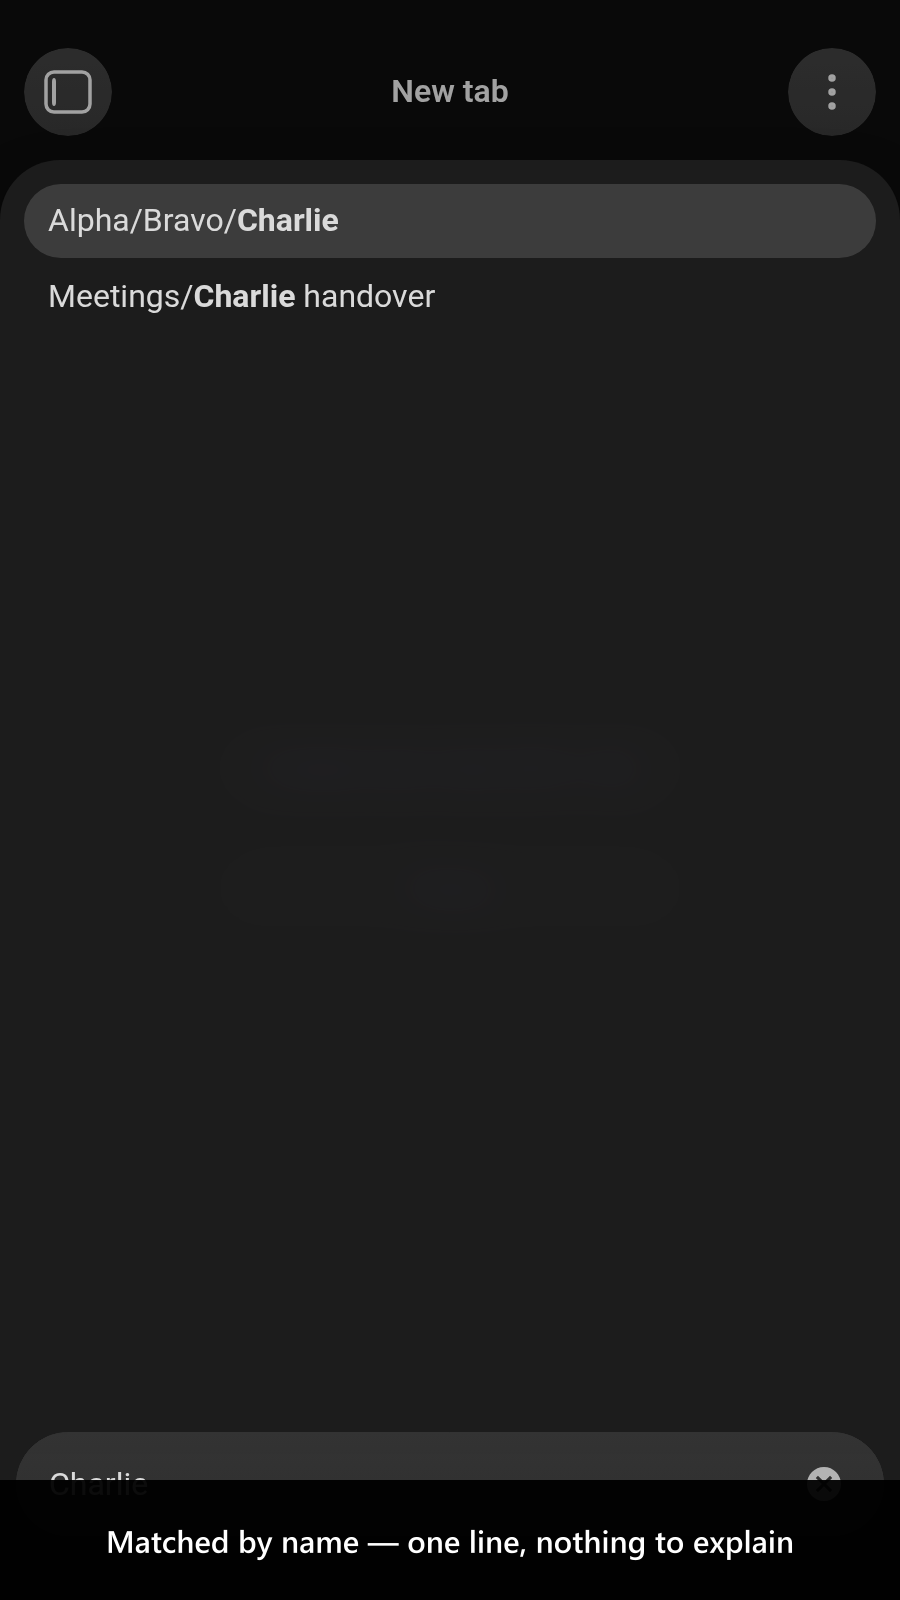
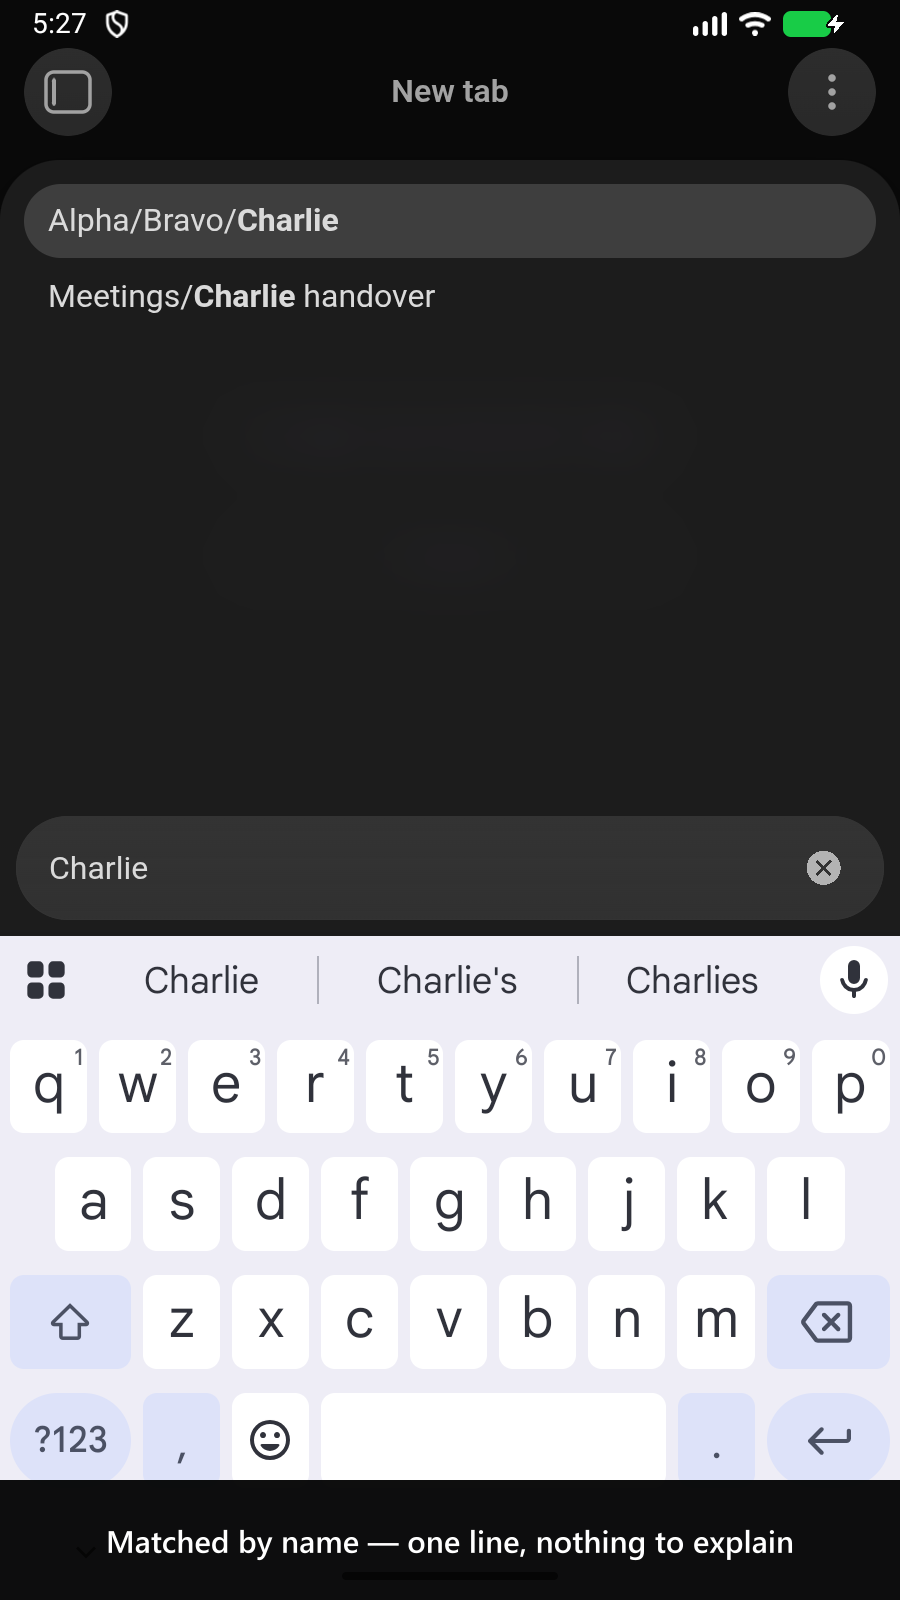
test(integration): take the mobile frames with the soft keyboard up
All four mobile frames show the switcher's focused search field, and until
now all four photographed the page rather than the device. That cannot show
a keyboard: the capture drives Appium in the WebView context and the IME is
a system window, not part of the page. So the lower 59-71% of every frame
was an empty band where a phone shows a keyboard, and the caption band -
drawn across the bottom of the image - landed on the search field and cut
the typed query in half.

The frames now come from the device framebuffer, with the keyboard raised
first. Measured as the largest contiguous flat row-run: 69.9% -> 31.4%,
71.3% -> 32.8%, 59.0% -> 20.5%, 71.3% -> 32.8%, with the band's lower edge
moving from row 1431 to row 815, which is where the keyboard now starts.
The query is legible in all four. What is left above the field is the
switcher's own empty list area, which is a real characteristic of a query
with one or two matches rather than anything a keyboard can fix.

Both halves of raising it come from the harness rather than being copied in
here: the AVD is built with a hardware keyboard attached, so Android
suppresses the on-screen one until the device setting is flipped, and a
WebView will not ask for an IME on programmatic focus alone, so it takes a
real touch on the field. The device setting is restored exactly afterwards,
including the case where it had never been written.

The consequence to accept, and now written down where it will be read: these
[…]

diff --git a/src/screenshots.android-capture.integration.test.ts b/src/screenshots.android-capture.integration.test.ts
@@ -13,6 +13,11 @@
  * 900x1600 the community store asks for. See `scripts/vitest-config.ts` for why the shared `obsidian_test`
  * AVD cannot stand in for it.
  *
+ * **Every frame is taken with the soft keyboard up**, because every frame shows a focused search field and
+ * that is what a phone looks like with one. See {@link shoot} for what raising it takes and why the
+ * harness owns both halves. The consequence to accept: these four frames are **no longer
+ * byte-reproducible**, since the status-bar clock and the battery indicator are now in them.
+ *
  * Split across several short `evalInObsidian` calls because one call is one `execute/sync`, which
  * WebDriver caps at 30 seconds — the wall this repo's eight cross-platform suites all hit on their first
  * Android run. The waiting itself happens in NODE for the same reason: the 60s ceiling this file used to
@@ -32,11 +37,14 @@ import { join } from 'node:path';
 import process from 'node:process';
 import { setTimeout as sleepInNode } from 'node:timers/promises';
 import {
-  captureObsidianScreenshot,
+  captureDeviceScreenshot,
   evalInObsidian,
   labelScreenshot,
   pollInObsidian,
-  readPngDimensions
+  raiseSoftKeyboard,
+  readPngDimensions,
+  resolveEmulatorDeviceId,
+  withSoftKeyboardEnabled
 } from 'obsidian-integration-testing';
 import { getTemporaryVault } from 'obsidian-integration-testing/vitest-global-setup-plugin';
 import {
@@ -53,6 +61,19 @@ const HEIGHT_IN_PIXELS = 1600;
 
 const MODAL_SELECTOR = '.alias-quick-switcher-modal';
 
+/**
+ * The switcher's search field, which is what a thumb touches to bring the keyboard up.
+ */
+const INPUT_SELECTOR = `${MODAL_SELECTOR} .prompt-input`;
+
+/**
+ * The AVD these frames are taken on, matched by name.
+ *
+ * Never the first device `adb devices` lists: a physical phone is routinely plugged into the same machine,
+ * and the shared `obsidian_test` AVD the cross-platform suites drive is a different size.
+ */
+const AVD_NAME = 'obsidian_screenshots';
+
 const WAIT_TIMEOUT_IN_MILLISECONDS = 60_000;
 const TEST_TIMEOUT_IN_MILLISECONDS = 600_000;
 
@@ -61,7 +82,11 @@ const ROW_SETTLE_DELAY_IN_MILLISECONDS = 900;
 
 const IMAGES_DIRECTORY = join(process.cwd(), 'images', 'screenshots');
 
+let deviceId = '';
+
 beforeAll(async () => {
+  deviceId = await resolveEmulatorDeviceId({ avdName: AVD_NAME });
+
   const vault = getTemporaryVault();
 
   vault.populate({
@@ -208,17 +233,35 @@ async function openSwitcher(query: string): Promise<string[]> {
 }
 
 /**
- * Captures the device's framebuffer, captions it, and writes it as
+ * Captures the device's framebuffer with the soft keyboard up, captions it, and writes it as
  * `images/screenshots/screenshot-mobile-<index>.png`.
+ *
+ * Every frame here shows the switcher's focused search field, so every frame gets the keyboard — and
+ * therefore the DEVICE capture rather than the page one. `captureObsidianScreenshot` drives Appium in the
+ * WebView context, so it photographs the page: no status bar, and no keyboard, because the IME is a system
+ * window and not part of the page. That left the lower ~60-70 % of each frame as an empty band where a
+ * phone shows an IME.
+ *
+ * Two things are needed and both are easy to miss, which is why they are the harness's job rather than
+ * this file's: the AVD is built `hw.keyboard=yes`, so Android suppresses the on-screen keyboard until
+ * `withSoftKeyboardEnabled` lifts that; and a WebView does not ask for an IME on programmatic focus
+ * alone, so `raiseSoftKeyboard` puts a real touch on the field and proves it came up.
  *
  * @param index - The 1-based listing position.
  * @param caption - The caption drawn across the bottom of the frame.
  */
 async function shoot(index: number, caption: string): Promise<void> {
-  const bytes = await captureObsidianScreenshot({
-    heightInPixels: HEIGHT_IN_PIXELS,
-    vaultPath: vaultPath(),
-    widthInPixels: WIDTH_IN_PIXELS
+  const bytes = await withSoftKeyboardEnabled({
+    async callback() {
+      await raiseSoftKeyboard({
+        deviceId,
+        inputSelector: INPUT_SELECTOR,
+        vaultPath: vaultPath()
+      });
+
+      return await captureDeviceScreenshot({ deviceId });
+    },
+    deviceId
   });
 
   const labeled = await labelScreenshot(bytes, { text: caption });

diff --git a/AGENTS.md b/AGENTS.md
@@ -77,6 +77,22 @@ listing shots.
   status bar but on a phone is the switcher's own search field — so the typed query is the one thing a
   mobile frame does not show in full. The rows above it are what the frame is evidence for; do not caption
   a mobile frame with something only the query could prove.
+- **The mobile frames photograph the DEVICE, not the page, and are therefore not byte-reproducible.** All
+  four show a focused search field, so all four are taken with the soft keyboard up.
+  `captureObsidianScreenshot` cannot produce that: it drives Appium in the WebView context, so it captures
+  the page, and the IME is a system window that is not part of the page — which left the lower 59–71 % of
+  each frame as an empty band where a phone shows a keyboard. `captureDeviceScreenshot` reads the
+  framebuffer instead, and brings the status-bar clock and battery indicator into the frame with it. That
+  is the trade: a frame honest about the experience, at the cost of a re-capture never being byte-identical.
+  Do not "fix" the churn by reverting to the page capture.
+- **Raising the keyboard takes TWO things, and the harness owns both.** The AVD is built `hw.keyboard=yes`,
+  so Android suppresses the on-screen keyboard entirely — `withSoftKeyboardEnabled` lifts that for the
+  duration of a shot and restores the device exactly, *including* restoring a setting that had never been
+  written, which takes a `settings delete` rather than a write. And a WebView does not ask for an IME on
+  programmatic focus alone: `raiseSoftKeyboard` puts a real `adb` touch on the field, waits for the
+  animation, and proves geometrically that the field lifted — nothing in the page reports the keyboard, so
+  the field's own offset from the bottom is the only signal. A failure writes the device framebuffer and
+  `dumpsys input_method` to `dist/screenshots/`, because a bare assertion failure here is unreadable.
 
 ### Writing a `*.cross-platform.*` suite here
 
@@ -85,7 +101,7 @@ Both constraints below were found the hard way, by every one of the eight suites
 - **One `evalInObsidian` call is one `execute/sync`, and WebDriver caps a single script at 30 seconds.** A create-wait-open-type-assert flow fits inside that on a desktop and does not on a phone. Split the suite into several short calls and compute the stamp in the TEST, passing it in, so each call re-derives the same paths instead of carrying state across the boundary.
 - **The harness's trusted-input helpers are Electron-only.** `pressKey` reaches for `remote` and throws on Android. The `no-untrusted-input-events` rule pushes towards it, which is right for a desktop-only suite and unusable for a cross-platform one. Dismiss a modal by clicking `.modal-bg` instead — a plain click is the one gesture that works on both.
 - **A timed-out closure wedges the shared WebDriver session**, so every suite after it fails in ~45 ms with no useful error. When a run collapses like that, re-run the first failing file alone before believing anything about the ones behind it.
-- **A stale AVD boot snapshot kills the device mid-session, and the harness resumes one on every launch.** It passes `-no-snapshot-save` but never `-no-snapshot-load`, so `default_boot` is restored every time; when that snapshot has rotted the emulator boots, serves adb, accepts a uiautomator2 session, and then goes `offline` about a minute later. Because the error reported depends on which call was in flight, the same fault appears as a `POST /session` timeout, a `device offline`, or `Device ... was not in the list of connected devices` — which reads like four different problems. Proof is one A/B: resumed dies ~90 s in, `-no-snapshot-load` survives 240 s+. Fix it at the machine level, not in this repo — cold-boot the AVD, confirm it is healthy, then `adb -s emulator-5554 emu avd snapshot save default_boot`. Tracked as `T956`.
-- **A zombie `qemu-system-x86_64-headless` is the first thing to check when the Android leg will not start.** The harness launches with `-no-window`, whose backend process is `qemu-system-x86_64-**headless**.exe`; its teardown kills the launcher, logs `Killed auto-started emulator`, and leaves that backend alive holding TCP 5554/5555 and the AVD's `multiinstance.lock`. Every later run then refuses with `FATAL | Running multiple emulators with the same AVD` — on the emulator's own stdout, which the harness discards — and reports a `POST /session` timeout instead. Self-perpetuating, since each failure leaves another zombie. Confirm with `Get-Process | Where-Object { $_.ProcessName -like 'qemu*' }` (note that filtering on `qemu-system-x86_64` alone does NOT match it), recover with `Stop-Process -Force`, `adb kill-server`, and deleting `~/.android/avd/obsidian_test.avd/multiinstance.lock` — but not `hardware-qemu.ini.lock`, which is a directory healthy AVDs have too. Then **let the harness boot its own emulator: do NOT pre-boot one**. A hand-started device is not adopted — the transport starts a second instance for the same AVD and collides with itself, failing with `Android emulator exited prematurely with code 1`. Tracked upstream as `T956` against `obsidian-integration-testing`.
+- **A stale AVD boot snapshot kills the device mid-session — fixed upstream, and worth recognizing if it ever comes back.** The symptom: the emulator boots, serves adb, accepts a uiautomator2 session, and then goes `offline` about a minute later. Because the error reported depends on which call was in flight, one fault appears as a `POST /session` timeout, a `device offline`, or `Device ... was not in the list of connected devices` — which reads like four different problems. The cause was resuming a snapshot nothing had written: `obsidian-integration-testing` passed `-no-snapshot-save` without `-no-snapshot-load`, so every launch restored a `default_boot` that rots. Proof was one A/B — resumed died ~90 s in, `-no-snapshot-load` survived 240 s+. Since 12.1.0 the harness cold-boots by default, passing both flags, and snapshot reuse is an explicit opt-in that takes load and save together. If a run ever shows this again, check that nothing has re-enabled reuse before suspecting this repo.
+- **A zombie `qemu-system-x86_64-headless` is the first thing to check when the Android leg will not start.** The harness launches with `-no-window`, whose backend process is `qemu-system-x86_64-**headless**.exe`; its teardown kills the launcher, logs `Killed auto-started emulator`, and leaves that backend alive holding TCP 5554/5555 and the AVD's `multiinstance.lock`. Every later run then refuses with `FATAL | Running multiple emulators with the same AVD` — on the emulator's own stdout, which the harness discards — and reports a `POST /session` timeout instead. Self-perpetuating, since each failure leaves another zombie. Confirm with `Get-Process | Where-Object { $_.ProcessName -like 'qemu*' }` (note that filtering on `qemu-system-x86_64` alone does NOT match it), recover with `Stop-Process -Force`, `adb kill-server`, and deleting `~/.android/avd/obsidian_test.avd/multiinstance.lock` — but not `hardware-qemu.ini.lock`, which is a directory healthy AVDs have too. - **A pre-booted emulator IS adopted — but only one whose console still answers.** The transport asks a running device `adb -s <id> emu avd name` and adopts it when the AVD matches, so starting the screenshots AVD by hand and then running the capture reuses it (measured 2026-09-12: the run logged no boot of its own and finished in 39 s instead of 105 s). What it cannot adopt is a **wedged** emulator, because a wedge blocks the console socket too — so that one question goes unanswered, the harness boots a second instance for the same AVD, and the collision surfaces as `Android emulator exited prematurely with code 1`. That error therefore means "the device that was already up is dead", not "do not pre-boot"; kill the wedged one rather than reaching for a flag.
 - **`IntegrationSetupFailedError` is not a test failure and not a wedge — it is the Appium session never being created.** Every suite in the project fails in ~2 ms, the smoke test that only loads the plugin included, and the real error is one `WebDriverError: The operation was aborted due to timeout ... POST /session` far below the nine `FAIL` lines. If the smoke test is among the failures, read the setup error before reading anything else: no test ran, so nothing about the code is implicated. Seen when a capture run was still finishing on the same machine — a device leg and anything else heavy do not overlap.
 - **`npm run test:integration` aborts at the first failing project, and the projects after it produce NO result.** The order is `no-app`, `demo-vault`, `android`, `desktop`, so an Android setup failure means the desktop suites never ran at all — their absence from the output is silence, not a pass. Count the `Test Files` blocks: four projects, four blocks. When the device leg is unreliable, run `test:integration:desktop` and `test:integration:android` separately so neither can hide the other.
